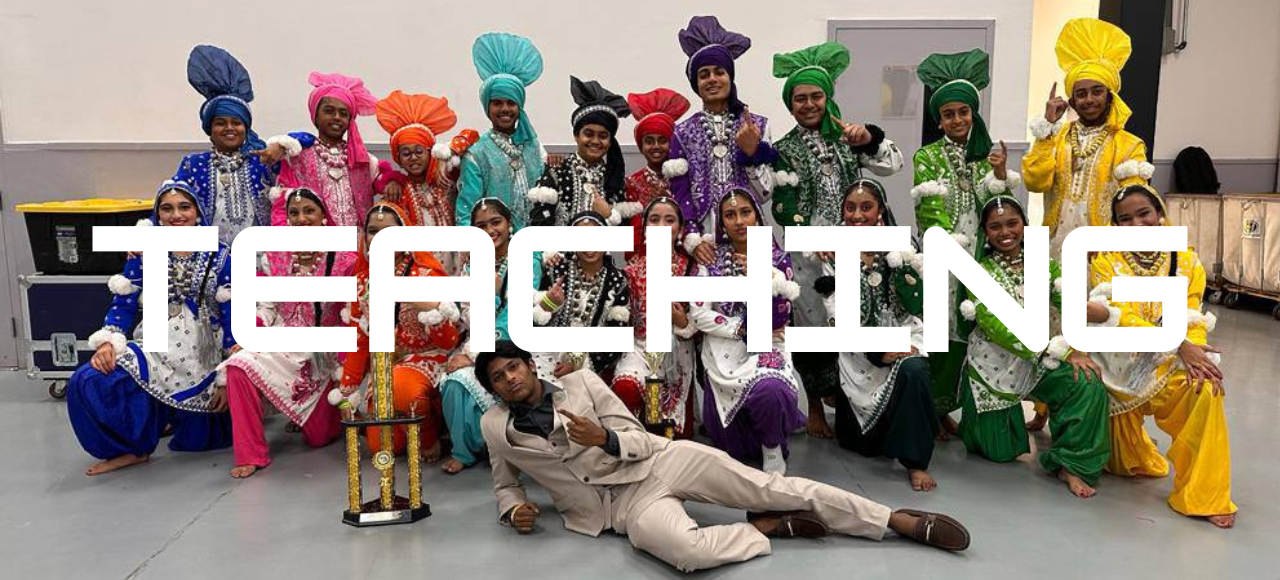
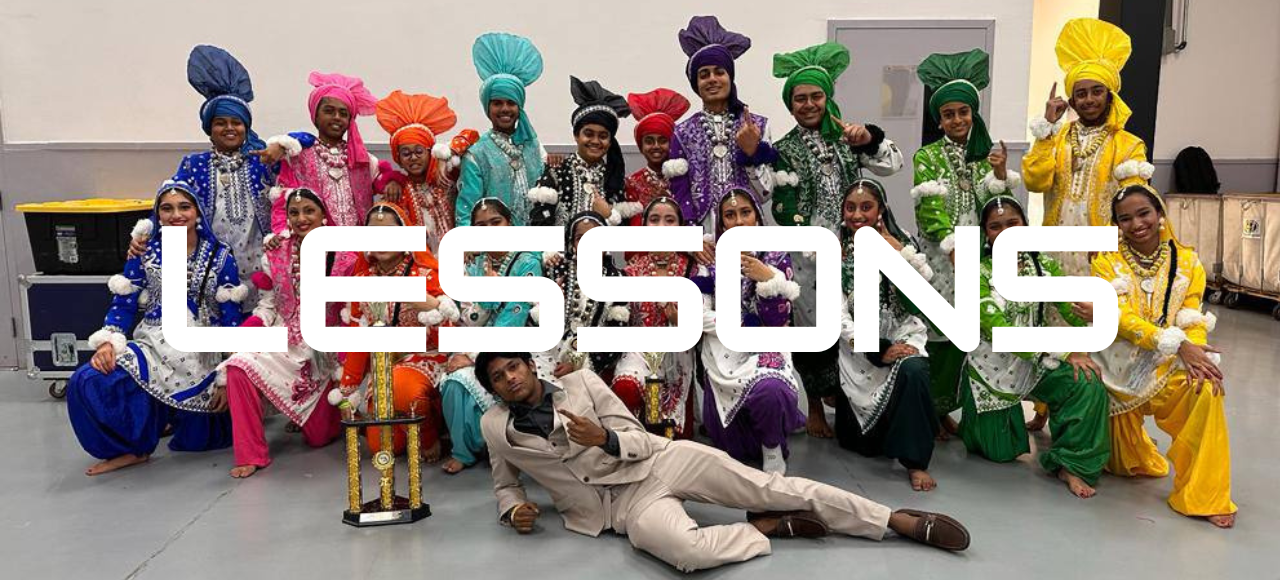
updates

Changed region(s): [[0.0625, 0.3724, 0.9375, 0.6207], [0.875, 0.3724, 0.9375, 0.4345]]

diff --git a/website-template/src/Components/Pages/Home.tsx b/website-template/src/Components/Pages/Home.tsx
@@ -17,15 +17,18 @@ export const Home = () => {
          </div>
         </div>
         <div className="section">
-            <h2>Welcome to Sharma Productions! I am thrilled to have you visit. I've loved 
-                the art of music and dance my whole life and spreading Indian culture through
-                the services I provide to improve your events is an incredible fulfillment!
+            <h2>Welcome to Sharma Productions! Welcome to Sharma Productions! 
+                I am thrilled to have you here. With a deep-rooted passion for music and 
+                dance, I take pride in celebrating and sharing the richness of Indian culture 
+                through my services, designed to make your events truly unforgettable.
             </h2>
             <h2>
-                For a brief idea of what I do and how I can benefit your event, check out the Services section!
-                To see my previous performances and feedback, visit the Gallery and Reviews section!
-                If you would like to contact or book me, visit the contact me section! Otherwise, feel free to scroll down
-                and learn more about me!
+            Explore the Services section for a detailed overview of how I can bring creativity 
+            and elegance to your special occasion. To discover past performances and hear from 
+            delighted clients, visit the Gallery and Reviews sections. If you're interested in 
+            connecting or booking my services, the Contact Me section is just a click away.
+            Thank you for visiting—scroll down to learn more about my story and the inspiration
+             behind Sharma Productions!
             </h2>
         </div>
         <div className="banner-container">
@@ -38,18 +41,22 @@ export const Home = () => {
         </div>
         <div className="bio-container">
             <div className="bio">
-                <p > Suvan Sharma is an Indo-Guyanese artist that specializes in dhol, tabla, and bhangra. 
-                    Classically trained from the age of 8 years old, Suvan aims to spread his love for tabla 
-                    and dhol as he teaches multiple students a week with personalized lesson plans catered to 
-                    each individual. Suvan has also been academy trained in bhangra folk arts, and has been the
-                    captain of the University of South Florida’s nationally competitive bhangra team.
-
-</p>
+                <p > Suvan Sharma is a highly skilled Indo-Guyanese artist, 
+                    classically trained in tabla and dhol from the age of eight.
+                     With years of experience and a deep passion for these traditional 
+                     instruments, Suvan shares his expertise by offering personalized lessons
+                      tailored to the unique needs of each student. In addition to his musical
+                       accomplishments, Suvan has been formally trained in bhangra folk arts and
+                        served as the captain of the University of South Florida’s nationally
+                       competitive bhangra team.
+                </p>
             <p>
-            Performing at over 100 events all around the world and working with countless DJs and planners, 
-            Suvan is dedicated to ensuring the event is memorable through whatever service is asked from the client.
-             Committed to creating a sense of communal appreciation for culture, Suvan’s goal is to captivate audiences with
-             heartfelt and unforgettable performances, whether it is music or dance, and have fun in the process!
+            Suvan has performed at over 100 events worldwide, collaborating with esteemed DJs and event
+             planners to deliver unforgettable experiences. His dedication to excellence ensures every event
+              he contributes to is both unique and memorable. Driven by a mission to foster a communal appreciation
+               for culture, Suvan captivates audiences with heartfelt performances that blend artistic mastery with a 
+               joyous celebration of tradition. Whether performing, teaching, or collaborating, Suvan Sharma is committed
+                to inspiring a deep connection to culture and creating lasting memories for all involved.
             </p>
             </div>
             <div className="bio-image">

diff --git a/website-template/src/Components/Pages/Services.tsx b/website-template/src/Components/Pages/Services.tsx
@@ -35,7 +35,7 @@ export const Services = () => {
                         <h2> Bhangra </h2>
                         </div>
                         <div className="glassbox" onClick={() => toggleBox('teaching')}>
-                        <h2> Teaching </h2>
+                        <h2> Lessons </h2>
                         </div>       
             </div>
             <div className="toggle-box-container">
@@ -72,9 +72,8 @@ export const Services = () => {
                        Suvan has performed dhol at 100+ events internationally!
                     </p>
                     <p>
-                        To find out more details about this service, please visit
-                        the contact me page and give me your information so I can reach
-                        out!
+                    For more information about this service, please visit the Contact Me page and provide your details.
+                     I will be happy to reach out to you promptly!  
                     </p>
                 </div>
              </div>
@@ -86,9 +85,8 @@ export const Services = () => {
                         banquets, and receptions.
                     </p>
                     <p>
-                        To find out more details about this service, please visit
-                        the contact me page and give me your information so I can reach
-                        out!
+                    For more information about this service, please visit the Contact Me page and
+                     provide your details. I will be happy to reach out to you promptly!  
                     </p>
                 </div>
                 <img src={tablabanner} alt="Suvan playing tabla" className="dhol-banner"></img>
@@ -101,9 +99,8 @@ export const Services = () => {
                        16 dancers performs at conferences, birthdays, weddings, etc.
                     </p>
                     <p>
-                        To find out more details about this service, please visit
-                        the contact me page and give me your information so I can reach
-                        out!
+                    For more information about this service, please visit the Contact Me page and
+                     provide your details. I will be happy to reach out to you promptly!  
                     </p>
                 </div>
              </div>
@@ -112,9 +109,8 @@ export const Services = () => {
                     <p>Tabla and Dhol personalized lessons continue to be in full swing!
                     </p>
                     <p>
-                        To find out more details about this service, please visit
-                        the contact me page and give me your information so I can reach
-                        out!
+                    For more information about this service, please visit the Contact Me page
+                     and provide your details. I will be happy to reach out to you promptly!  
                     </p>
                 </div>
                 <img src={teachingbanner} alt="Suvan playing dhol" className="dhol-banner"></img>

diff --git a/website-template/src/Components/Pages/services.css b/website-template/src/Components/Pages/services.css
@@ -44,7 +44,7 @@ body, html {
     text-align: center;
     color: #ffffff;
     font-size: 48px; 
-    font-family: 'Arial Narrow Bold', Impact, sans-serif;
+    font-family:  sans-serif;
     letter-spacing: 2px;
     text-shadow: 3px 3px 6px rgba(0, 0, 0, 0.8);
 }
@@ -79,7 +79,7 @@ body, html {
 .glassbox h2 {
     color: #ffffff; 
     font-size: 40px;
-    font-family: 'Arial Narrow Bold', Impact, sans-serif;
+    font-family: sans-serif;
     letter-spacing: 1.5px;
     margin: 0;
     text-shadow: 2px 2px 4px rgba(0, 0, 0, 0.7); 
@@ -121,7 +121,7 @@ body, html {
     text-align: center; 
     color: #ffffff;
     font-size: 16px;
-    font-family: 'Arial Narrow', sans-serif;
+    font-family: sans-serif;
     letter-spacing: 1px;
     text-shadow: 2px 2px 4px rgba(0, 0, 0, 0.7); 
     opacity: 0; 
@@ -166,5 +166,5 @@ body, html {
     font-size: large;
     text-align: center;
     max-width: 200px;
-    font-family:'Gill Sans', 'Gill Sans MT', Calibri, 'Trebuchet MS', sans-serif;
+    font-family:sans-serif;
 }

diff --git a/website-template/src/Components/Pages/Home.css b/website-template/src/Components/Pages/Home.css
@@ -50,7 +50,7 @@ body, html {
     letter-spacing: 2px;
     background: inherit;
     opacity: 70%;
-    font-family:Impact, Haettenschweiler, 'Arial Narrow Bold', sans-serif;
+    font-family: sans-serif;
     text-shadow: 5px 5px 10px rgba(0, 0, 0, 0.9);
     cursor: pointer;
 }
@@ -67,7 +67,7 @@ body, html {
 }
 
 .section h2 {
-    font-family:'Times New Roman', Times, serif;
+    font-family:sans-serif;
     font-size: 20px;
     top: 50%;
     left: 50%;
@@ -123,9 +123,12 @@ body, html {
     flex-direction: column;
     justify-content: center;
     align-items: center;
-    max-width: 45%;
+    max-width: 65%;
     color: white;
     box-sizing: border-box;
+}
+.bio p {
+    width: 800px;
 }
 
 .bio-image {
@@ -133,7 +136,7 @@ body, html {
     display: flex;
     justify-content: flex-end;
     align-content: center;
-    max-width: 45%;
+    max-width: 30%;
     padding: 0; 
 }
 .bio-image1 {

diff --git a/website-template/src/Components/NavBar/NavBar.tsx b/website-template/src/Components/NavBar/NavBar.tsx
@@ -2,9 +2,11 @@ import {useState, useEffect} from 'react'
 import './NavBar.css'
 import logo from '../../assets/logo.jpeg'
 import {Link} from 'react-router-dom'
-
+import { useNavigate } from "react-router-dom";
 
 const NavBar = () => {
+    const navigate = useNavigate();
+
     const[isCollapsed, setIsCollapsed] = useState(false);
     const[openMenu, setOpenMenu] = useState(false);
 
@@ -29,7 +31,7 @@ const NavBar = () => {
 
     return (
         <div className={`navbar ${isCollapsed ? 'collapsed' : ''}`}>
-            <img src={logo} alt="Company Logo" className="logo" />
+            <img src={logo} alt="Company Logo" className="logo"  onClick={() => navigate("/")} />
             <div className={`menu ${isCollapsed ? 'collapsed' : ''}`} onClick={()=> {
                 setOpenMenu(!openMenu)
             }}>

diff --git a/website-template/src/Components/Pages/Reviews.tsx b/website-template/src/Components/Pages/Reviews.tsx
@@ -121,7 +121,7 @@ export const Reviews = () => {
             <img src={home2} alt="Suvan posing with long hair" className="banner-image"/>
             <div className="banner-services">
                 <div className="img-text-services">
-                     <h2>Customer Reviews</h2>
+                     <h2>Client Reviews</h2>
                 </div>
              </div>
         </div>
@@ -143,7 +143,7 @@ export const Reviews = () => {
       <div className="form-container">
         <h1>Submit A Review!</h1>
         <p>
-            Please submit a review to give me feedback on how to improve!
+        Your feedback means a lot to me! Please share your experience and let me know how I’ve helped you. 
         </p>
         <form onSubmit={handleSubmit}>
             <label htmlFor="name">Name</label>

diff --git a/website-template/src/Components/Pages/Reviews.css b/website-template/src/Components/Pages/Reviews.css
@@ -29,7 +29,7 @@
     text-overflow: ellipsis;
     white-space: nowrap; 
     font-style: italic;
-    font-family: 'Georgia', serif;
+    font-family: sans-serif;
     text-shadow: 5px 5px 6px rgba(0, 0, 0, 1.0); 
     z-index: 1; 
   }
@@ -37,7 +37,7 @@
   .review-name {
     flex: 1; 
     text-align: right;
-    font-family: 'Arial', sans-serif; 
+    font-family: sans-serif; 
     padding-right: 50px;
     text-shadow: 5px 5px 5px rgba(0, 0, 0, 0.7);
   }

diff --git a/website-template/src/Components/Pages/ContactMe.tsx b/website-template/src/Components/Pages/ContactMe.tsx
@@ -75,7 +75,7 @@ export const ContactMe = () => {
           <h1>Sharma Productions</h1>
           <p>
             Please fill out the form below with the details of your event and
-            I'll reach out with more information!
+            I'll reach out with more information promptly!
           </p>
           <form onSubmit={handleSubmit}>
             <label htmlFor="name">Name</label>

diff --git a/website-template/src/Components/EndingHeader/EndingHeader.css b/website-template/src/Components/EndingHeader/EndingHeader.css
@@ -2,7 +2,7 @@
     position: relative;
     width: 100%;
     padding-right: 50px;
-    font-family:'Gill Sans', 'Gill Sans MT', Calibri, 'Trebuchet MS', sans-serif;
+    font-family:sans-serif;
     background-color: #210b0a;
     display: flex;
     align-items: center;

diff --git a/website-template/src/Components/Pages/ContactMe.css b/website-template/src/Components/Pages/ContactMe.css
@@ -5,7 +5,7 @@
   background-size: cover;
   background-position: center;
   background-color: #f7f7f7;
-  font-family: Arial, sans-serif;
+  font-family:  sans-serif;
   margin: 0;
   padding: 0;
 }
